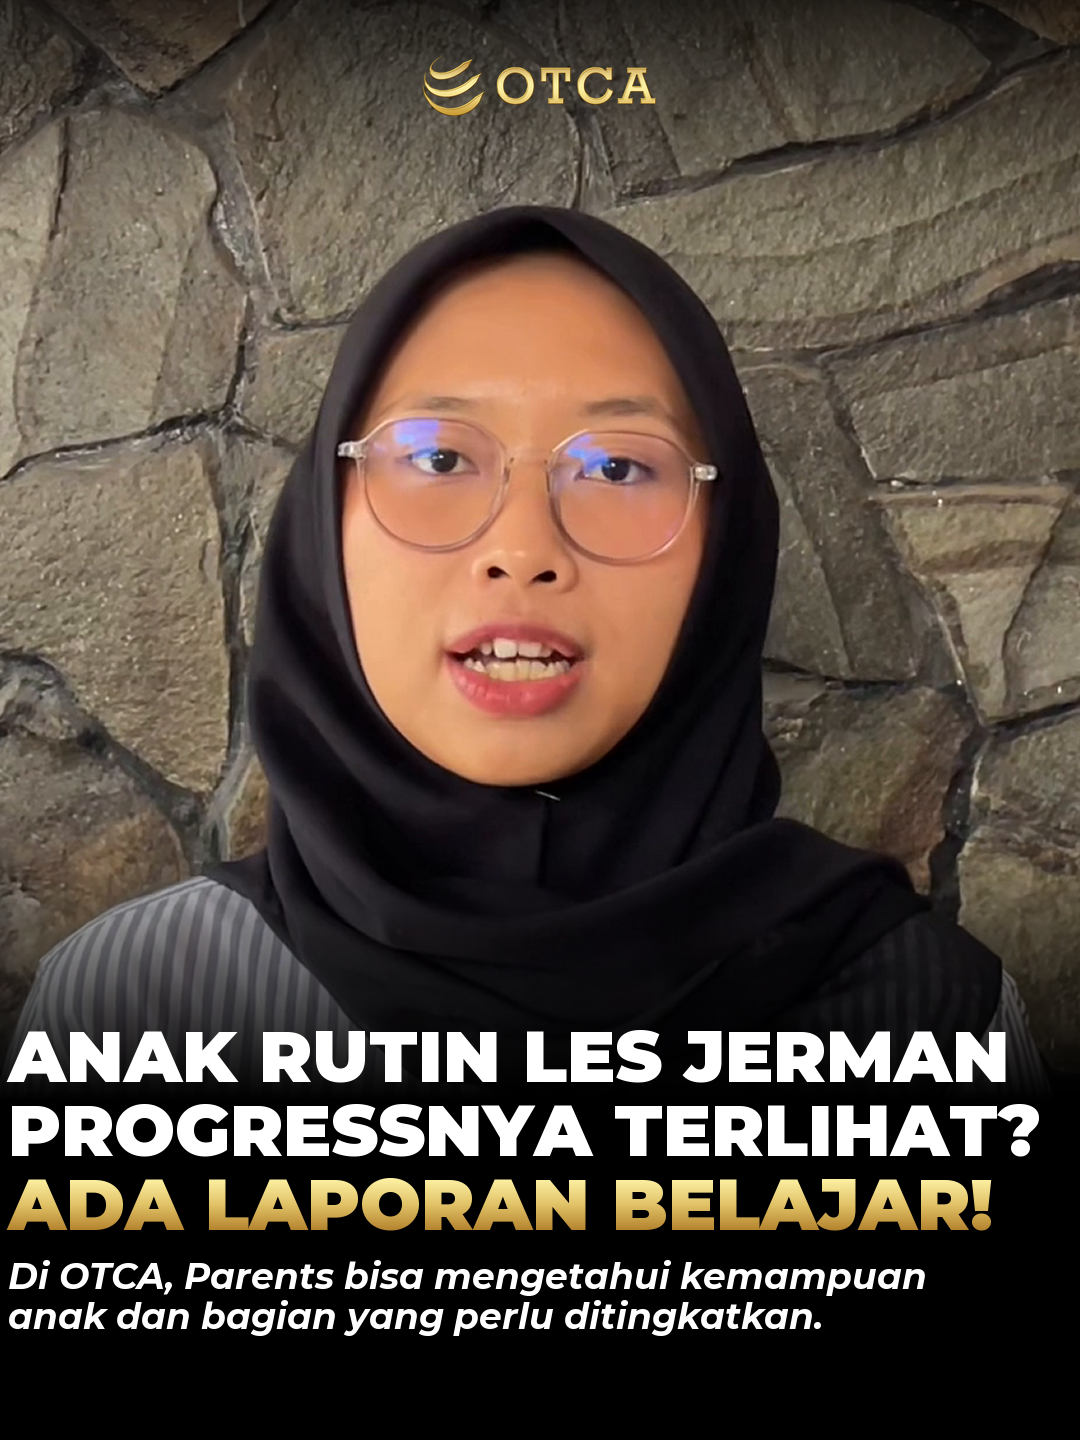
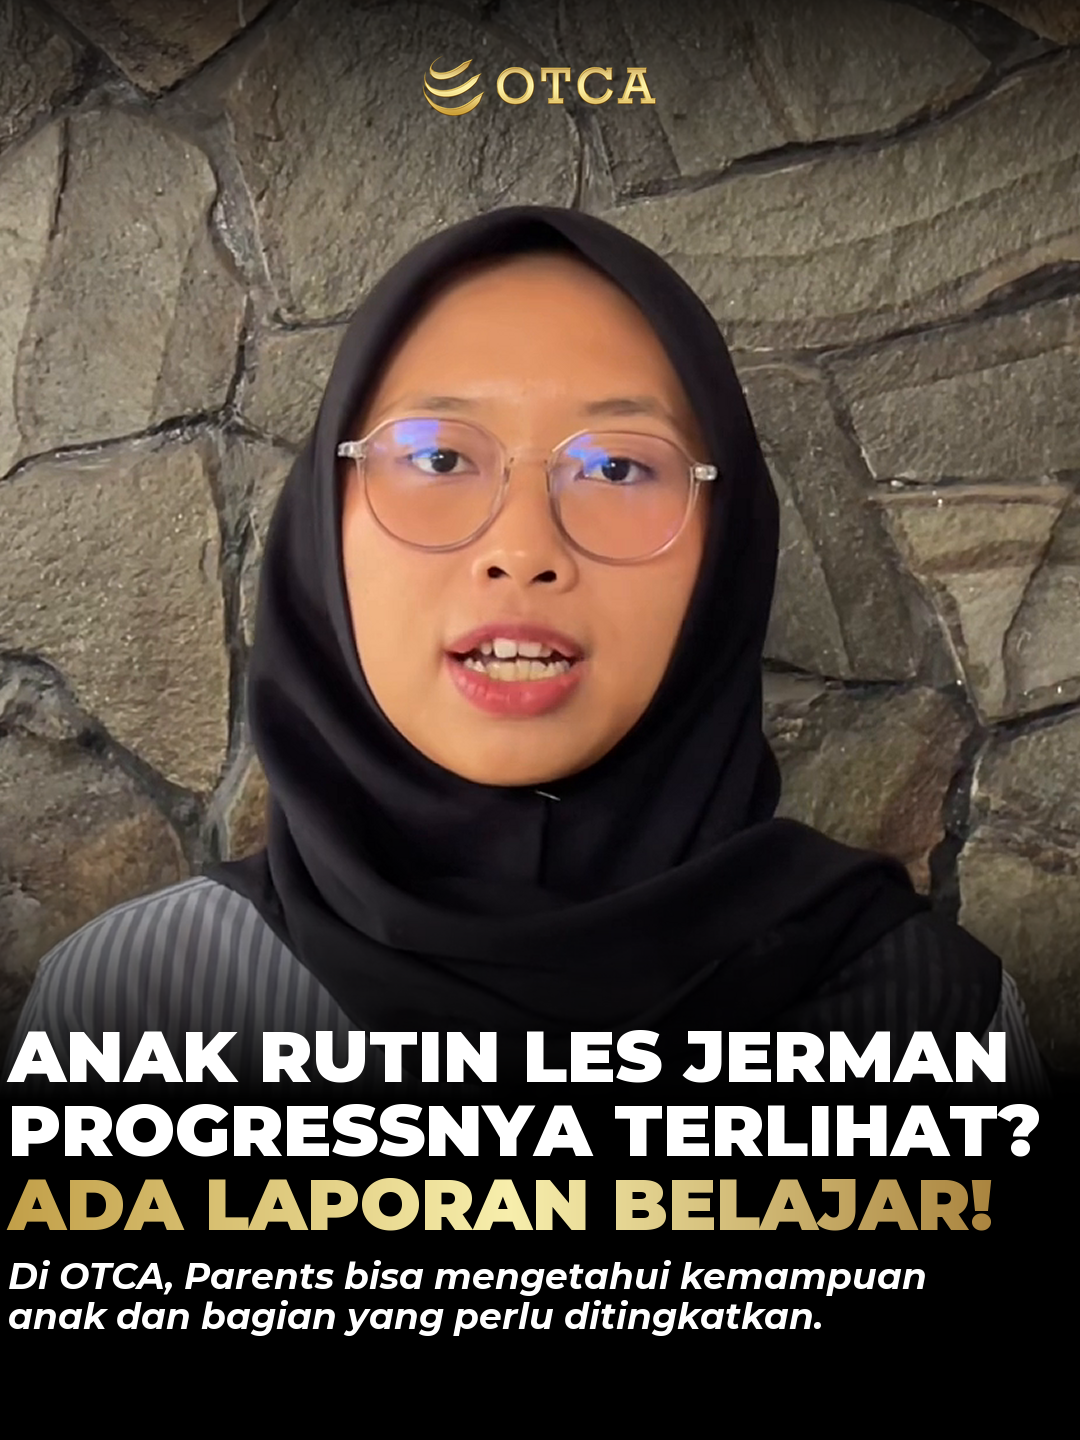
fix: cocokkan gradien emas mendatar thumbnail OTCA dengan referensi

Changed region(s): [[0.0, 0.8125, 0.9167, 0.875]]

diff --git a/pipeline/tests/test_thumbnail.py b/pipeline/tests/test_thumbnail.py
@@ -6,7 +6,7 @@ from types import SimpleNamespace
 from unittest.mock import Mock, patch
 
 import numpy as np
-from PIL import Image
+from PIL import Image, ImageDraw, ImageFont
 
 import _dasar  # noqa: F401
 import ekspor
@@ -32,18 +32,26 @@ class CoverDelivery(unittest.TestCase):
                         thumbnail.compose(photo, [.32, .2, .68, .4], brand,
                                           "SATU", "Satu\nDua\nTiga", fmt, {})
 
-    def test_otca_gold_is_a_visible_gradient_inside_the_letters(self):
-        im = Image.new("RGBA", (500, 160), "black")
-        font = thumbnail.ImageFont.truetype(str(thumbnail.ROOT / "thumbnail/aset/Montserrat-Black.ttf"), 74)
-        thumbnail.gradient_text(im, (8, 8), "EMAS", font, ["#FDF1A4", "#E1C267", "#B3822C"])
-        pixels = np.asarray(im)
-        rows, _ = np.where((pixels[:, :, 0] > 160) & (pixels[:, :, 1] > 100))
-        high = pixels[:int(np.quantile(rows, .25)), :, :3]
-        low = pixels[int(np.quantile(rows, .75)):, :, :3]
-        high_gold = high[(high[:, :, 0] > 160) & (high[:, :, 1] > 100)]
-        low_gold = low[(low[:, :, 0] > 160) & (low[:, :, 1] > 100)]
-        self.assertGreater(float(high_gold[:, 2].mean()), float(low_gold[:, 2].mean()) + 30)
-        self.assertTrue(np.array_equal(pixels[0, 0, :3], [0, 0, 0]))
+    def test_otca_gold_matches_reference_horizontal_center_highlight(self):
+        text = "ADA LAPORAN BELAJAR!"
+        image, qa = thumbnail.compose(Image.new("RGB", (1080, 1920), "black"),
+                                      [.32, .2, .68, .4], "otca", text, "", "grid", {})
+        font = ImageFont.truetype(str(thumbnail.ROOT / "thumbnail/aset/Montserrat-Black.ttf"), 72)
+        mask = Image.new("L", image.size)
+        ImageDraw.Draw(mask).text((8, qa["text_boxes"][0][1]), text, font=font, fill=255, anchor="lt")
+        y, x = np.where(np.asarray(mask) == 255)
+        colors = np.asarray(image)[y, x]
+        # Interior colors sampled from the user's screenshot 03, with resize/JPEG tolerance.
+        for low, high, expected in [(.08, .12, [206, 175, 90]), (.46, .50, [245, 233, 167]),
+                                    (.86, .90, [177, 141, 70])]:
+            sample = colors[(x / 1080 >= low) & (x / 1080 < high)]
+            self.assertTrue(len(sample))
+            self.assertLess(float(np.max(np.abs(np.median(sample, axis=0) - expected))), 12)
+        # No light-to-dark sweep from the top of a letter to the bottom.
+        for column in (100, 500, 900):
+            sample = colors[x == column]
+            self.assertGreater(len(sample), 1)
+            self.assertEqual(int(np.ptp(sample, axis=0).max()), 0)
 
     def test_unknown_explicit_brand_is_rejected_and_no_substring_guessing(self):
         p = SimpleNamespace(dir=Path("2026-11_notcat"), manifest={})

diff --git a/pipeline/scripts/thumbnail.py b/pipeline/scripts/thumbnail.py
@@ -52,17 +52,21 @@ def wrap(text: str, font, width: int, maximum: int) -> list[str]:
     return lines
 
 
-def gradient_text(im: Image.Image, position: tuple[int, int], text: str, font, colors: list[str]) -> None:
-    """Fill the actual glyphs with a vertical gold gradient; preserve antialiased edges."""
+def gradient_text(im: Image.Image, position: tuple[int, int], text: str, font, colors: list[str],
+                  positions: list[float] | None = None) -> None:
+    """Horizontal gold field anchored to the canvas, matching the supplied OTCA covers."""
     box = ImageDraw.Draw(im).textbbox(position, text, font=font, anchor="lt")
     width, height = box[2] - box[0], box[3] - box[1]
     mask = Image.new("L", (width, height))
     ImageDraw.Draw(mask).text((position[0] - box[0], position[1] - box[1]), text,
                              font=font, fill=255, anchor="lt")
     stops = np.array([[int(c[i:i + 2], 16) for i in (1, 3, 5)] for c in colors])
-    rows = np.array([np.interp(np.linspace(0, 1, height), np.linspace(0, 1, len(stops)), stops[:, i])
+    # The light band stays in the same canvas position even on a shorter line.
+    xs = (box[0] + np.arange(width)) / max(1, im.width - 1)
+    knots = positions if positions is not None else np.linspace(0, 1, len(stops))
+    columns = np.array([np.interp(xs, knots, stops[:, i])
                      for i in range(3)]).T.round().astype(np.uint8)
-    fill = Image.fromarray(np.repeat(rows[:, None, :], width, axis=1)).convert("RGBA")
+    fill = Image.fromarray(np.repeat(columns[None, :, :], height, axis=0)).convert("RGBA")
     im.paste(fill, (box[0], box[1]), mask)
 
 
@@ -182,7 +186,7 @@ def compose(photo: Image.Image, face: list[float], brand: str, headline: str, su
             d.rectangle((box[0] - 6, box[1] - 3, box[2] + 7, box[3] + 4), fill="white")
             fill = b["accent"]
         if accented and b.get("accent_gradient"):
-            gradient_text(im, (margin, y), line, font, b["accent_gradient"])
+            gradient_text(im, (margin, y), line, font, b["accent_gradient"], b.get("accent_gradient_positions"))
         else:
             d.text((margin, y), line, font=font, fill=fill, anchor="lt")
         boxes.append(box)

diff --git a/thumbnail/README.md b/thumbnail/README.md
@@ -1,4 +1,4 @@
-# Thumbnail empat brand — template v1.1
+# Thumbnail empat brand — template v1.2
 
 Ketetapan pengguna, 7 November 2026: setiap video baru dari empat brand ini
 disertai thumbnail. Template dibakukan untuk penggunaan internal. Contoh asli pengguna tersimpan di
@@ -10,7 +10,12 @@ disertai thumbnail. Template dibakukan untuk penggunaan internal. Contoh asli pe
 
 - **OTCA Official (`otca`):** foto talent, fade hitam bawah, judul putih tebal,
   aksen gradien emas pada baris terakhir, logo emas resmi di tengah atas.
-  Gradien isi huruf: `#FDF1A4` → `#E1C267` → `#B3822C`; teks pendukung putih miring.
+  Gradien isi huruf **mendatar dari kiri ke kanan**: emas `#C19E47` →
+  cream terang `#F7EEAC` → emas gelap `#9C712B`. Sorot di **47,2% lebar
+  kanvas**, bukan di tengah masing-masing kata. Warna dan posisi dikalibrasi
+  dari huruf screenshot 03, lalu dibandingkan dengan screenshot 01.
+  Jangan memakai gradien vertikal atau memulai ulang gradien pada tiap baris.
+  Teks pendukung putih miring.
   Montserrat Black 72 px, jarak baris 74 px, margin 8 px agar lebar tulisan
   mendekati contoh asli. Pendukung Montserrat Bold Italic 36 px, jarak 40 px.
   Font khusus OTCA dibundel di `aset/`; tidak mengikuti perubahan font brand lain.
@@ -120,7 +125,7 @@ dengan judul/terpotong kanvas. Ringkas teks atau pilih foto lain; tidak ada
 pemotongan kalimat atau pengecilan font diam-diam. Jika satu format gagal,
 gambar lama tidak ditimpa dan laporan ditandai GAGAL.
 
-## Bukti uji v1.1
+## Bukti uji v1.2
 
 Empat pratinjau memakai footage asli proyek Nina beasiswa, Info Jerman 3 jalur,
 Jepang Koey bahasa Inggris, dan Ciao Manda. Foto/teks contoh merupakan draf
@@ -133,4 +138,7 @@ demo, sehingga gambar ini bukan contoh isi untuk video beasiswa.
 Konfigurasi warna/logo ada di `brand-v1.json`; renderer di
 `pipeline/scripts/thumbnail.py`. Identitas brand dapat dipakai ulang; judul,
 ekspresi dan latar mengikuti video masing-masing.
-Konfigurasi v1.0 diarsipkan di `arsip/thumbnail/brand-v1.0.json`.
+Konfigurasi v1.0 dan v1.1 diarsipkan di `arsip/thumbnail/`.
+Perbandingan potongan teks sumber dan gradien revisi ada di
+`pratinjau/perbandingan-gradien-otca.png`. Warna adalah hasil kalibrasi screenshot;
+bukan klaim memperoleh file desain asli atau mengubah palet video OTCA.

diff --git a/thumbnail/validasi.md b/thumbnail/validasi.md
@@ -1,11 +1,12 @@
-# Validasi thumbnail v1.1 — 7 November 2026
+# Validasi thumbnail v1.2 — 7 November 2026
 
 - Empat demo memakai footage proyek nyata; hasil 9:16 dan 3:4 terbentuk.
 - Contact sheet empat brand diperiksa: identitas warna, logo, wajah,
   pemenggalan judul, dan keterbacaan. Cover demo belum disetujui untuk publikasi.
 - 89 pengujian pipeline lulus, termasuk batas 3 baris headline/2 baris subheadline
-  pada empat brand dan kedua ukuran, gradien emas OTCA yang berubah di dalam
-  glyph, penolakan judul berlebih, perlindungan
+  pada empat brand dan kedua ukuran, gradien emas OTCA mendatar yang cocok
+  dengan sampel screenshot dan tetap konstan secara vertikal di interior glyph,
+  penolakan judul berlebih, perlindungan
   output lama saat gagal, ketepatan brand, wajah/teks pada delapan layout, dan
   integrasi ekspor multisumber/renderer. Lint berkas yang diubah lulus.
 - Pemeriksaan seluruh repo belum bersih: empat lint lama di
@@ -18,6 +19,15 @@
 - Tipografi OTCA dikalibrasi dengan teks screenshot 03: Montserrat Black
   72 px, jarak 74 px, margin 8 px; pendukung Bold Italic 36 px. Snapshot
   kalibrasi menunjukkan tiga baris judul dan dua baris pendukung.
+- Koreksi gradien v1.2: v1.1 memakai sapuan vertikal yang berbeda dari contoh.
+  Screenshot 03 pada ROI x=0–284, y=297–309 memperlihatkan perubahan warna
+  terutama sepanjang sumbu x. Fit tiga stop pada piksel interior menghasilkan
+  `#C19E47` → `#F7EEAC` (x=47,2%) → `#9C712B`; kesalahan RMS sekitar 8,2
+  level RGB terhadap screenshot yang sudah di-resize. Pita emas screenshot 01
+  menunjukkan pola mendatar yang sama. Ini kalibrasi visual, bukan kecocokan
+  piksel terhadap file desain sumber yang tidak tersedia.
+- Pratinjau OTCA dan lembar gabungan diperbarui; desain brand lain tetap.
+  Bukti pembanding: `pratinjau/perbandingan-gradien-otca.png`.
 
 Pemeriksaan otomatis tidak mengesahkan ekspresi talent, kebenaran klaim,
 kesempurnaan tepi mask, atau crop aktual aplikasi. Pemeriksaan itu dilakukan

diff --git a/CLAUDE.md b/CLAUDE.md
@@ -25,4 +25,4 @@ Setelah mengubah skrip pipeline: `.venv\Scripts\python -m unittest discover -s p
 - **Mask & subtitle:** mask talent harus bersih (tepi hijab/rambut); subtitle tidak pernah menutupi wajah atau sosok manusia (§10).
 - **Subtitle full frame:** wajib premium, setara mutu subtitle split atau tipografi editorial profesional lain; jangan default teks kecil polos. Baca `konteks/KONTEKS_11_caption-premium-full-frame_v0.1.md` dan tampilkan contohnya pada storyboard (§11). Berlaku ke depan, tanpa render ulang video lama otomatis.
 - **Thumbnail empat brand:** baca `thumbnail/README.md` (§12). Video baru OTCA Official, Info Jerman, Jepang Koey, Ciao Manda wajib mendapat cover 9:16 + grid 3:4; tunjukkan bersama storyboard sebelum persetujuan. Gunakan template brand masing-masing, tanpa ikon Reels platform. Ekspor lewat `video.py` otomatis membuat cover; revisi cover saja lewat `video.py thumbnail`, tanpa render ulang video.
-- **Batas thumbnail:** semua brand maksimal 3 baris headline dan 2 baris subheadline (termasuk wrap). OTCA memakai ukuran/bobot contoh dan emas gradien; Info Jerman memakai kuning sampel `#EDD05F`. Ikuti template v1.1, ringkas teks berlebih tanpa mengecilkan font.
+- **Batas thumbnail:** semua brand maksimal 3 baris headline dan 2 baris subheadline (termasuk wrap). OTCA memakai ukuran/bobot contoh dan emas gradien mendatar dengan sorot di tengah kanvas; Info Jerman memakai kuning sampel `#EDD05F`. Ikuti template v1.2, ringkas teks berlebih tanpa mengecilkan font.

diff --git a/ATURAN_KERJA.md b/ATURAN_KERJA.md
@@ -151,6 +151,8 @@ Berlaku untuk video **baru** saja. File OTCA yang sudah ada tetap di folder file
 - Revisi Zar 2026-11-07: **headline maksimal 3 baris, subheadline maksimal 2
   baris untuk semua brand dan ukuran**. Hitung hasil wrap, bukan hanya enter.
   Ringkas teks bila melebihi batas; jangan mengecilkan atau memotong diam-diam.
-- OTCA Official: ukuran/bobot huruf mengikuti contoh, aksen emas berupa gradien
-  di dalam huruf. Info Jerman: kuning `#EDD05F` dari ketiga contoh pengguna.
-  Rincian font, margin, jarak dan gradien disimpan pada template thumbnail v1.1.
+- OTCA Official: ukuran/bobot huruf mengikuti contoh. Gradien emas di dalam huruf
+  mendatar kiri → cream terang di tengah → emas gelap kanan; posisi sorot mengikuti
+  kanvas, tidak diulang per kata/baris. Jangan memakai gradien vertikal.
+  Info Jerman: kuning `#EDD05F` dari ketiga contoh pengguna.
+  Rincian font, margin, jarak dan gradien disimpan pada template thumbnail v1.2.

diff --git a/arsip/CHANGELOG.md b/arsip/CHANGELOG.md
@@ -355,3 +355,8 @@ Versi lama dipindah ke `arsip/<lapisan>/` dengan nama file tetap (mis. arsip/kon
 - Semua brand: headline maksimal tiga baris dan subheadline dua baris, termasuk hasil wrap; tanpa pengecilan font otomatis.
 - OTCA: kalibrasi Montserrat Black 72 px, susunan lebih lebar dan rapat, pendukung Bold Italic, emas gradien di dalam huruf.
 - Info Jerman: kuning #EDD05F disampel dari ketiga screenshot; perbarui empat demo dan arsipkan konfigurasi v1.0. 89 tes pipeline lulus.
+
+## 2026-11-07 — samakan gradien emas thumbnail OTCA v1.2
+
+- Koreksi sapuan emas menjadi mendatar: sorot cream di 47,2% kanvas, sisi kiri dan kanan lebih gelap. Warna dikalibrasi dari piksel huruf screenshot pengguna, tanpa mengulang gradien per baris.
+- Perbarui cover OTCA, snapshot tipografi, bukti perbandingan, dan aturan tetap; arsipkan konfigurasi v1.1. 89 pengujian lulus termasuk pembandingan warna interior dengan screenshot.

diff --git a/INDEX.md b/INDEX.md
@@ -244,4 +244,4 @@ Semua efek E01–E30 native. Generator slot memilih efek per fungsi sesuai gaya 
 
 ## Thumbnail empat brand
 
-- Thumbnail@1.1 — [panduan dan contoh](thumbnail/README.md), [konfigurasi](thumbnail/brand-v1.json), [referensi asli](thumbnail/referensi.json). OTCA Official, Info Jerman, Jepang Koey, Ciao Manda. Cover 9:16 dan grid 3:4 mengikuti storyboard; dibuat otomatis saat ekspor melalui pipeline, atau terpisah lewat `video.py thumbnail <proyek>`.
+- Thumbnail@1.2 — [panduan dan contoh](thumbnail/README.md), [konfigurasi](thumbnail/brand-v1.json), [referensi asli](thumbnail/referensi.json). OTCA Official, Info Jerman, Jepang Koey, Ciao Manda. Cover 9:16 dan grid 3:4 mengikuti storyboard; dibuat otomatis saat ekspor melalui pipeline, atau terpisah lewat `video.py thumbnail <proyek>`.

diff --git a/AGENTS.md b/AGENTS.md
@@ -21,5 +21,6 @@
   Ikuti template brand masing-masing, jangan masukkan ikon Reels dari screenshot.
   Revisi cover tidak memerlukan render ulang video lama.
 - Thumbnail semua brand: headline maksimal 3 baris, subheadline maksimal 2.
-  OTCA mengikuti bobot/ukuran contoh dengan emas gradien; kuning Info Jerman
-  mengikuti sampel screenshot `#EDD05F`. Rincian dikunci di template v1.1.
+  OTCA mengikuti bobot/ukuran contoh dengan emas gradien mendatar, sorot terang
+  di tengah kanvas; kuning Info Jerman mengikuti sampel `#EDD05F`.
+  Rincian dikunci di template v1.2.
